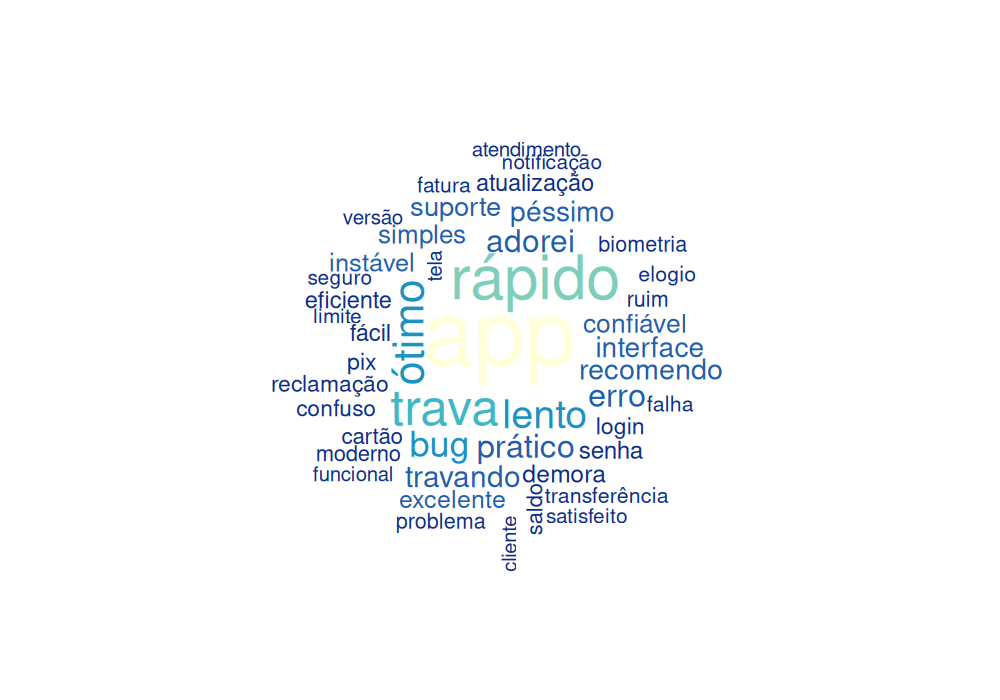
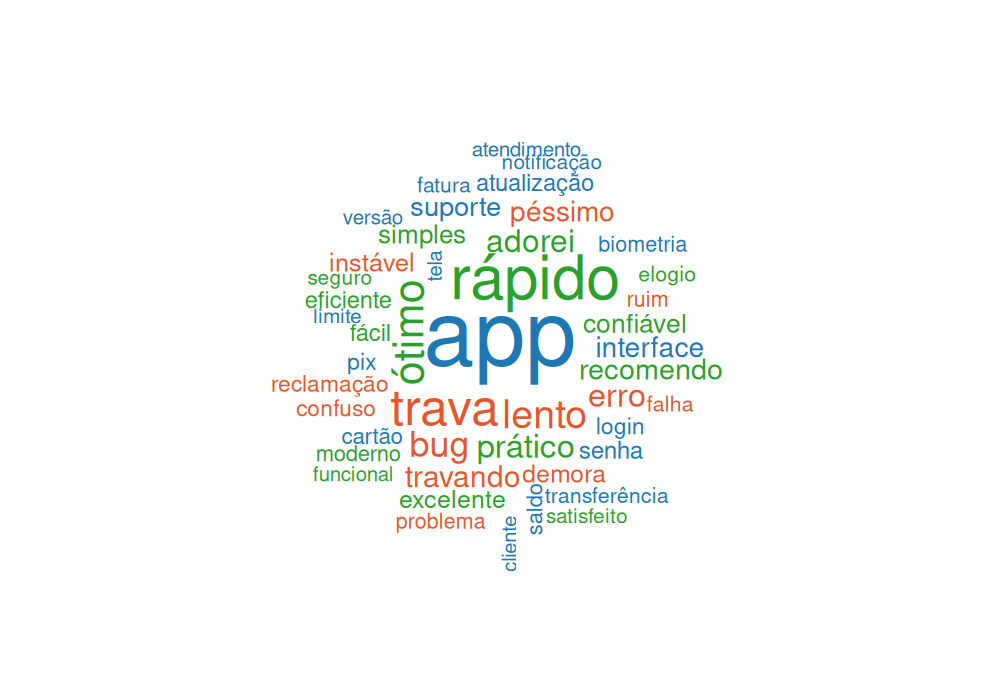
fix: unifica paleta por sentimento entre output.png e versao interativa, cores mais vivas (nuvem de palavras)

Changed region(s): [[0.279, 0.21, 0.713, 0.81]]

diff --git a/graficos/ranking/nuvem-palavras-avaliacoes-app/README.md b/graficos/ranking/nuvem-palavras-avaliacoes-app/README.md
@@ -5,7 +5,7 @@ date: 2026-08-24
 source: "https://r-graph-gallery.com/wordcloud.html"
 interactive: true
 resumo: "46 termos fictícios extraídos de avaliações de um app bancário, com o tamanho de cada palavra pela frequência de menção."
-pacotes: ["wordcloud", "RColorBrewer"]
+pacotes: ["wordcloud"]
 dados: "1 variável textual (palavra) + 1 numérica (frequência)"
 nivel: básico
 tags: ["interativo", "texto", "frequência"]
@@ -52,10 +52,12 @@ alguma ferramenta de processamento de texto antes de chegar no gráfico).
 
 - **Tamanho da palavra**: frequência de menção — quanto maior, mais vezes
   apareceu no texto de origem.
-- **Cor**: nesta versão, o sentimento associado à palavra (positivo,
-  negativo ou neutro) — não é um padrão universal de nuvem de palavras, é
-  uma escolha específica deste gráfico (a versão clássica costuma colorir
-  só pela própria frequência, sem uma dimensão a mais).
+- **Cor**: nesta versão, o sentimento associado à palavra — verde para
+  positivo, vermelho para negativo, azul para neutro — não é um padrão
+  universal de nuvem de palavras, é uma escolha específica deste gráfico
+  (a versão clássica costuma colorir só pela própria frequência, sem uma
+  dimensão a mais). A mesma paleta vale no `output.png` e na versão
+  interativa.
 - **Posição/rotação**: não codificam nada — são só o resultado de um
   algoritmo de encaixe tentando aproveitar o espaço sem sobrepor palavras.
 
@@ -65,14 +67,21 @@ alguma ferramenta de processamento de texto antes de chegar no gráfico).
 espiral a partir do centro, com detecção de colisão pra não sobrepor
 palavras) e desenha direto — não existe um parâmetro pra pedir o resultado
 sem desenhar. `scale` controla o tamanho da maior/menor palavra,
-`rot.per` a fração de palavras giradas 90°.
+`rot.per` a fração de palavras giradas 90°. A cor de cada palavra vem de
+`colors = cores_sentimento[dados$sentimento]` combinado com
+`ordered.colors = TRUE` — sem esse parâmetro, o `wordcloud()` reinterpreta
+o vetor de cores como uma RAMPA por frequência (o comportamento padrão,
+pensado pra colorir por frequência, não por categoria arbitrária).
 
 Dados fictícios: frequência de 46 termos comuns em avaliações de um app
 bancário fictício (`set.seed(6289)`), seguindo uma distribuição tipo Zipf
 (poucas palavras muito frequentes, cauda longa de palavras citadas poucas
 vezes — o padrão estatístico real de frequência de palavras em texto
 livre), com cada termo também classificado manualmente como
-positivo/negativo/neutro.
+positivo/negativo/neutro. A paleta por sentimento é definida **uma vez só**
+numa variável e usada tanto no `output.png` quanto exportada pro
+`data.json` da versão interativa — nunca repetir o hexadecimal em dois
+lugares, pra as duas versões nunca divergirem de cor por acidente.
 
 A versão interativa NÃO reaproveita o layout do R (ele não é exportável) —
 calcula o próprio, do zero, com o pacote `d3-cloud` (mesma família de
@@ -83,6 +92,24 @@ num sentimento na legenda isola aquele grupo.
 
 ## Possíveis problemas pelo caminho
 
+- **Problema**: a miniatura do gráfico na galeria (`output.png`) mostra uma
+  cor pra cada palavra, mas a versão interativa colore as mesmas palavras
+  de forma diferente — mesmo as duas estando "certas" isoladamente, a
+  divergência lê como bug pra quem vê a miniatura antes de clicar.
+  **Por quê**: cada versão calculou sua própria paleta separadamente (uma
+  por frequência, outra por sentimento), sem garantir que as duas
+  concordassem. **Solução**: definir a paleta **uma única vez** (uma
+  variável no R) e alimentar tanto o `output.png` quanto o `data.json`
+  exportado com ela — nunca decidir a cor de cada versão de forma
+  independente, mesmo quando as duas usam bibliotecas diferentes.
+- **Problema**: passar um vetor de cores do mesmo tamanho que as palavras
+  pro `wordcloud()` não gera o resultado esperado — as cores saem
+  embaralhadas ou aplicadas por faixa de frequência, não por palavra.
+  **Por quê**: por padrão, `wordcloud()` trata o vetor `colors` como uma
+  RAMPA (interpolada pela frequência), não como uma cor fixa por palavra.
+  **Solução**: passar `ordered.colors = TRUE` junto — só assim o vetor de
+  cores é pareado 1 a 1 com `words`/`freq`, na mesma ordem em que foram
+  passados.
 - **Problema**: um campo extra e inesperado (`_row`) aparece em cada
   entrada do JSON exportado, sem ter sido pedido em lugar nenhum do código.
   **Por quê**: indexar um vetor NOMEADO por um vetor de chaves
